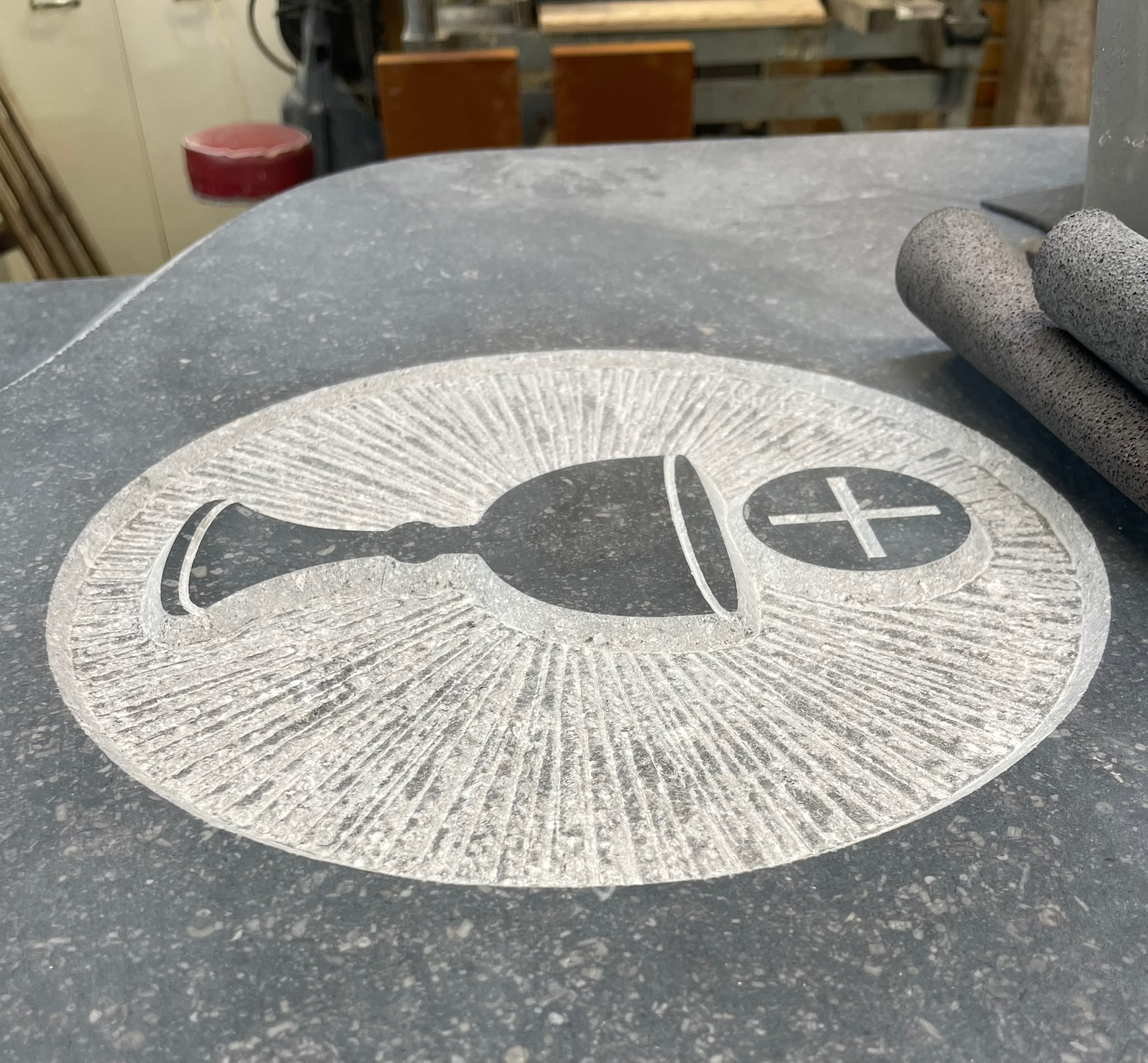
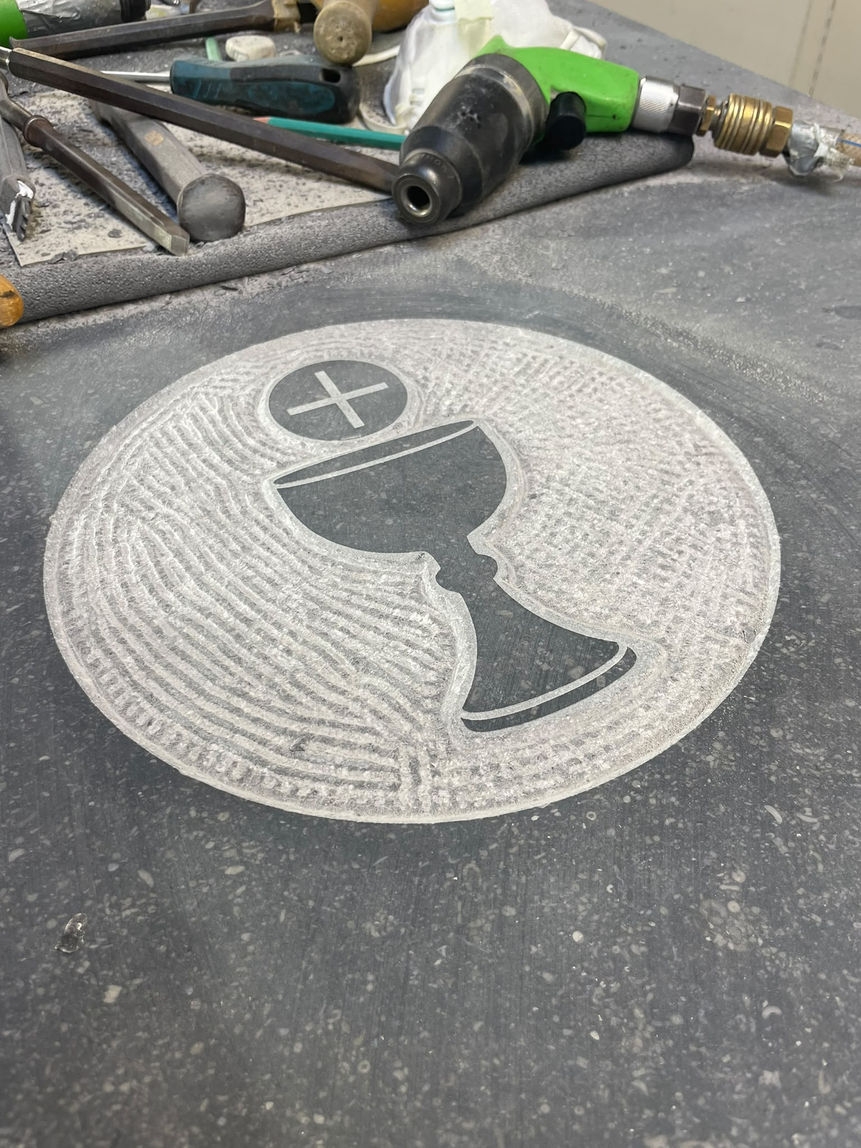
no message

diff --git a/docs/berichten/posts/261030grafsteen-van-pastoor-de-jong.md b/docs/berichten/posts/261030grafsteen-van-pastoor-de-jong.md
@@ -29,6 +29,9 @@ Mijn hoofd deed het in die tijd niet zo goed: razende gedachten en steeds een ge
 
 Dat ik gevraagd werd om mee te werken aan de grafsteen van **pastoor De Jong**, raakt me diep. Bij de graven van priesters komen voor mij veel dingen samen. **Zij hebben hun leven gegeven voor de Kerk**, en ik mag meewerken aan de rustplaats van hun lichaam. Ik word zelf getroost en gesterkt door stenen waarin het geloof zichtbaar is. Dan voelt de dood niet als een einde, maar wordt er een Hoop uitgesproken die groter is dan leven en dood. In een maatschappij waarin alles maakbaar en te regelen lijkt, houdt ons leven op een gegeven moment toch op. Dan rest ons niets anders dan alles in Zijn handen te leggen, in het volle vertrouwen dat er leven is na de dood.
 
+![De gedenkplaat voor de legging van de eerste steen](https://katholiekgorinchem.nl/assets/berichten/grafsteenPastoor1.jpeg){ style="width:auto; max-height:250px;" } 
+![Een oude foto van de Martinuskerk](https://katholiekgorinchem.nl/assets/berichten/grafsteenPastoor3.jpeg){ style="width:auto; max-height:250px;" }
+
 ## Een bijzonder ontwerp
 
 Over het ontwerp hebben we samen met enkele bestuursleden gesproken. Het bestuur koos voor een ontwerp waarin verschillende aspecten van ons geloof terugkomen. Bovenaan staat het **Chi-Rho-teken**, het Christusmonogram dat vaak bij priesters wordt gebruikt: wanneer zij de Mis voorgaan, treden zij op namens Christus, **in persona Christi**. Bij zijn geboorte- en sterfdatum staan de Alfa en de Omega, zodat zijn hele leven omvat wordt door Christus als begin en einde. Onderaan staan de kelk en de hostie, als teken van het Misoffer dat hij zo vaak heeft opgedragen in de parochies waar hij werkte. Dat raakte me bijzonder, omdat bij zijn uitvaart en daarna in de gemeenschapsruimte een foto van pastoor De Jong stond waarop hij juist de hostie en de kelk omhoog houdt.
@@ -42,8 +45,7 @@ Ik vind het heerlijk om in het steen te mogen hakken. In landen als Duitsland is
 Ik ben dankbaar dat ik aan deze steen mocht meewerken. **Help mee om er een mooie plek van te houden door niets óp de steen te zetten of de steen zelf schoon te maken. Grafkaarsen die omvallen geven onmogelijke vlekken, net als roest uit vaasjes of voorwerpen. Mocht u toch iets achter willen laten bij het graf, doe dit dan vóór of naast de steen, maar niet er bovenop. We willen graag dat deze steen zo lang mogelijk een mooie plek blijft** En als u vragen heeft: spreek me gerust eens aan na een Mis!
 
 
-![De gedenkplaat voor de legging van de eerste steen](https://katholiekgorinchem.nl/assets/berichten/grafsteenPastoor1.jpeg){ style="width:auto; max-height:225px;" } 
-![Een oude foto van de Martinuskerk](https://katholiekgorinchem.nl/assets/berichten/grafsteenPastoor2.jpeg){ style="width:auto; max-height:225px;" }
-![Inzegening van de Martinuskerk door monseigneur Schaaper](https://katholiekgorinchem.nl/assets/berichten/grafsteenPastoor3.jpeg){ style="width:auto; max-height:225px;" }
-![De gedenkplaat voor de legging van de eerste steen](https://katholiekgorinchem.nl/assets/berichten/grafsteenPastoor4.jpg){ style="width:auto; max-height:225px;" } 
+
+![Inzegening van de Martinuskerk door monseigneur Schaaper](https://katholiekgorinchem.nl/assets/berichten/grafsteenPastoor2.jpeg){ style="width:auto; max-height:250px;" }
+![De gedenkplaat voor de legging van de eerste steen](https://katholiekgorinchem.nl/assets/berichten/grafsteenPastoor4.jpg){ style="width:auto; max-height:250px;" } 
 
